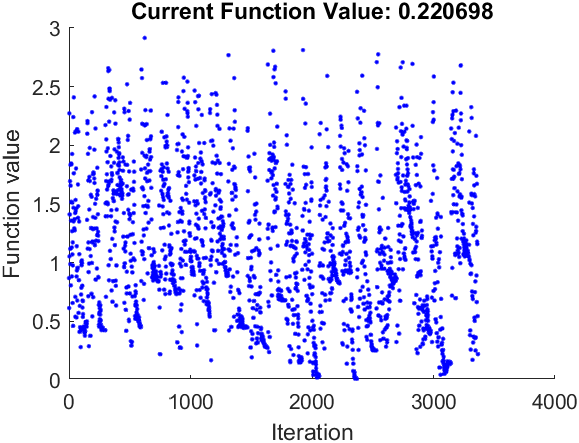
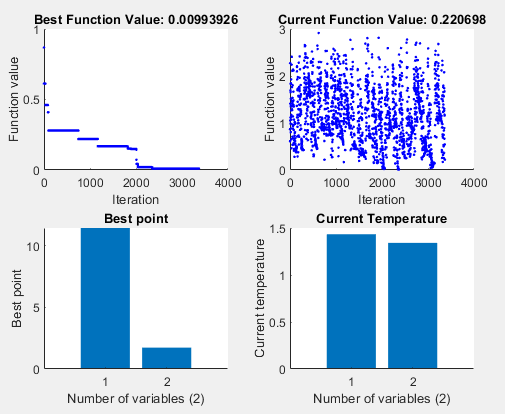
updated photos

diff --git a/Lab1task1.m b/Lab1task1.m
@@ -1,6 +1,6 @@
 clf
 clear all
-addpath('C:\Program Files\MATLAB\R2022b\examples\globaloptim\main')
+addpath('C:\Program Files\MATLAB\R2021b\examples\globaloptim\main')
 
 figure(1)
 ndim = 2;
@@ -24,12 +24,50 @@ zlabel('z')
 
 % Use a metaheuristic here
 rng(233904926);
+%%%%%%%%%%%%%%%%% Genetic Algorithms
+% options = optimoptions('ga', 'PlotFcn', {@gaplotbestf, @gaplotscorediversity});
+% fun = @griewank;
+% x = ga(fun, 2, [], [], [], [], [], [], [], options)
+
+%%%%%%%%%%%%%%%%% Simulated Annealing
+% x0 = [0 0];
+% fun = @griewank;
+% lb=[-50, -50];
+% ub = [50,50];
+% options = optimoptions('simulannealbnd', ...
+% 'PlotFcn', {@saplotbestf, @saplotf, @saplotbestx, @saplottemperature});
+% x = simulannealbnd(fun, x0, lb, ub, options)
+
+%%%%%%%%%%%%%%%%%% Particle Swarm
+% nvars = 2;
+% fun = @griewank;
+% lb=[-50, -50];
+% ub = [50,50];
+% options = optimoptions('particleswarm', 'PlotFcn', @pswplotbestf);
+% [x, fval] = particleswarm(fun, nvars, lb, ub, options)
+
+%%%%%%%%%%%%%%%%% Simulated Annealing annealingfcn
+% x0 = [0 0];
+% fun = @griewank;
+% lb=[-50, -50];
+% ub = [50,50];
+% options = optimoptions('simulannealbnd', ...
+% 'PlotFcn', {@saplotbestf, @saplotf, @saplotbestx, @saplottemperature}, AnnealingFcn='annealingboltz');
+% x = simulannealbnd(fun, x0, lb, ub, options)
+
+%%%%%%%%%%%%%%%%% Genetic Algorithms MutationFcn
+% options = optimoptions('ga', 'PlotFcn', {@gaplotbestf, @gaplotscorediversity}, MutationFcn='mutationadaptfeasible');
+% fun = @griewank;
+% x = ga(fun, 2, [], [], [], [], [], [], [], options)
+
+%%%%%%%%%%%%%%%%% Particle swarm SelfAdjustmentWeight
 nvars = 2;
-fun = @griewank;
-lb=[-50, -50];
-ub = [50,50];
+fun = @multirosenbrock;
+lb=-10*ones(1, nvars);
+ub = -lb;
 options = optimoptions('particleswarm', 'PlotFcn', @pswplotbestf, SelfAdjustmentWeight=23);
 [x, fval] = particleswarm(fun, nvars, lb, ub, options)
+
 
 figure(1)
 zl = zlim

diff --git a/Lab1task2.m b/Lab1task2.m
@@ -1,6 +1,6 @@
 clf
 clear all
-addpath('C:\Program Files\MATLAB\R2022b\examples\globaloptim\main')
+addpath('C:\Program Files\MATLAB\R2021b\examples\globaloptim\main')
 
 figure(1)
 ndim = 2;
@@ -34,6 +34,11 @@ ylabel('y')
 zlabel('z')
 
 % Use a GA with integer values for x(1) here
+rng(233904926);
+options = optimoptions('ga', 'PlotFcn', {@gaplotbestf, @gaplotscorediversity}, MutationFcn='mutationadaptfeasible');
+fun = @griewank;
+IntCon = 1
+x = ga(fun, 2, [], [], [], [], [], [], [], IntCon, options)
 
 figure(1)
 zl = zlim
